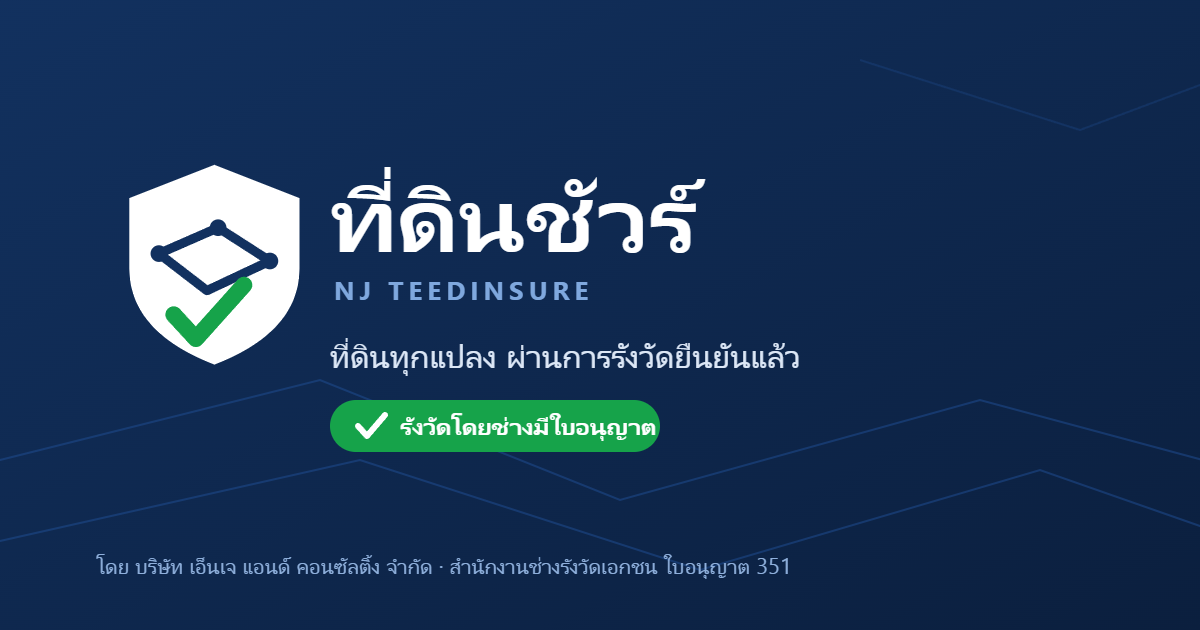
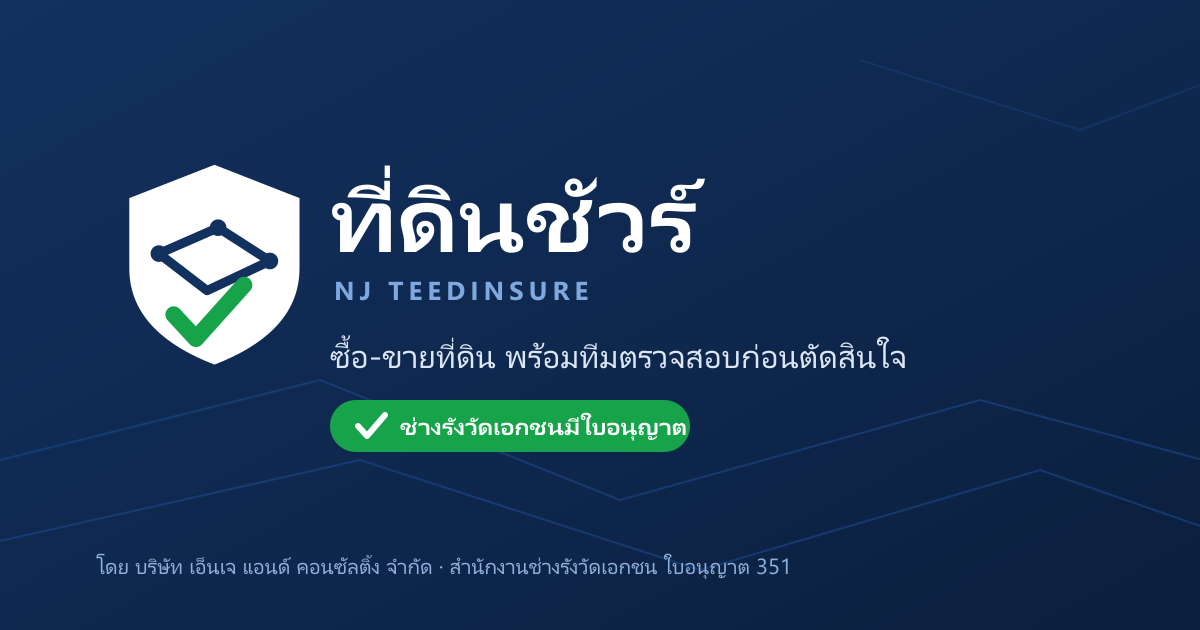
ข้อความก่อนเปิดสาธารณะ: เลิกอ้างว่าทุกแปลงรังวัดแล้ว · ค่านายหน้าขั้นบันได · เอาบันทึกภายในออก (#55)
* ข้อความบนเว็บก่อนเปิดสาธารณะ: เลิกอ้างว่าทุกแปลงรังวัดแล้ว · ค่านายหน้าขั้นบันได · เอากล่องบันทึกภายในออก

- รูปแชร์ (og-image) + โลโก้แนวนอน: "ที่ดินทุกแปลง ผ่านการรังวัดยืนยันแล้ว" → "ซื้อ-ขายที่ดิน พร้อมทีมตรวจสอบก่อนตัดสินใจ"
  (รังวัดเป็นบริการที่เจ้าของเลือกได้ตั้งแต่ 25 ก.ย. 2569) · สร้าง PNG ใหม่จาก SVG
- consign.html: title/og/description/hero บอกว่าเลือกรังวัดได้ (มีค่าบริการ) ไม่ใช่รังวัดให้ทุกแปลง ·
  ตัวเลือก "ต้องการรังวัด" เลิกสัญญาป้ายเขียว "รังวัดยืนยันแล้ว"
- services.html: ค่านายหน้า 3% → ขั้นบันได (ตรงกับหน้าฝากขาย/หน้าแรก) · contracts.test.js ล็อกเพิ่ม
- index.html/services.html: "ตรวจเอกสารและรังวัดยืนยันก่อนประกาศขาย" → รังวัดเมื่อเจ้าของเลือก
- njchat.js: เลิกอ้างว่าแปลงป้าย "รังวัดยืนยันแล้ว" ผ่านการรังวัด
- guides.html: เอากล่อง "ยังรอข้อมูลจากบริษัท" ออก (เจ้าของสั่ง 28 ก.ย. 2569) + CSS ที่ไม่ใช้แล้ว
- privacy.html: เอาหมายเหตุ "ข้อเสนอที่ยังไม่ได้รับอนุมัติ" ของตารางระยะเวลาเก็บออก (เจ้าของสั่ง) ·
  ตัดรหัสพนักงานผู้แชร์ (ฟีเจอร์ตัดแล้ว 26 ก.ย.) · วันที่ปรับปรุง 28 ก.ย. (privacy + terms)
- packages.html / package-order.html: แถบนโยบายท้ายหน้า + legal.css · <main> ซ้อนสองชั้นเหลือชั้นเดียว ·
  ฟอร์มแพ็กเกจลิงก์นโยบายความเป็นส่วนตัว
- forms.test.js หัวข้อ 10: ด่านกันข้อความอ้างเกินจริงกลับมา

* sitemap.xml: lastmod ของ guides/packages หลังแก้ข้อความ

---------

diff --git a/consign.html b/consign.html
@@ -3,16 +3,16 @@
 <head>
 <meta charset="UTF-8">
 <meta name="viewport" content="width=device-width, initial-scale=1.0">
-<title>ฝากขายที่ดินฟรี — รังวัดยืนยันเขตให้ก่อนประกาศ | ที่ดินชัวร์</title>
-<meta name="description" content="ฝากขาย/ฝากเช่าที่ดินกับที่ดินชัวร์ ไม่มีค่าใช้จ่ายล่วงหน้า ค่านายหน้าคิดเป็นขั้นตามราคาที่ขายได้ เริ่มที่ 3% และลดลงเมื่อมูลค่าสูงขึ้น เก็บเมื่อขายสำเร็จเท่านั้น เรารังวัดยืนยันเขตแดนจริงให้ก่อนประกาศขาย โดยช่างรังวัดเอกชนใบอนุญาตกรมที่ดินเลขที่ 351">
+<title>ฝากขายที่ดินฟรี — เลือกรังวัดยืนยันเขตก่อนประกาศได้ | ที่ดินชัวร์</title>
+<meta name="description" content="ฝากขาย/ฝากเช่าที่ดินกับที่ดินชัวร์ ไม่มีค่าใช้จ่ายล่วงหน้า ค่านายหน้าคิดเป็นขั้นตามราคาที่ขายได้ เริ่มที่ 3% และลดลงเมื่อมูลค่าสูงขึ้น เก็บเมื่อขายสำเร็จเท่านั้น เลือกให้รังวัดยืนยันเขตแดนจริงก่อนประกาศขายได้ (มีค่าบริการรังวัด) โดยช่างรังวัดเอกชนใบอนุญาตกรมที่ดินเลขที่ 351">
 <link rel="canonical" href="https://njteedinsure.com/consign.html">
 <meta name="referrer" content="strict-origin-when-cross-origin">
 <link rel="icon" href="brand/logo-favicon.svg">
 <link rel="apple-touch-icon" href="brand/apple-touch-icon.png">
 <meta property="og:type" content="website">
 <meta property="og:site_name" content="ที่ดินชัวร์">
-<meta property="og:title" content="ฝากขายที่ดินฟรี — รังวัดยืนยันเขตให้ก่อนประกาศ">
-<meta property="og:description" content="ไม่มีค่าใช้จ่ายล่วงหน้า เรารังวัดยืนยันเขตแดนจริงให้ก่อนประกาศขาย ผู้ซื้อจึงเชื่อถือและตัดสินใจเร็วขึ้น">
+<meta property="og:title" content="ฝากขายที่ดินฟรี — เลือกรังวัดยืนยันเขตก่อนประกาศได้">
+<meta property="og:description" content="ไม่มีค่าใช้จ่ายล่วงหน้า เลือกให้รังวัดยืนยันเขตแดนจริงก่อนประกาศขายได้ ผู้ซื้อจึงเชื่อถือและตัดสินใจเร็วขึ้น">
 <meta property="og:url" content="https://njteedinsure.com/consign.html">
 <meta property="og:image" content="https://njteedinsure.com/brand/og-image.png">
 <meta property="og:image:width" content="1200">
@@ -77,7 +77,7 @@
           "@id": "https://njteedinsure.com/#website"
         },
         "inLanguage": "th-TH",
-        "description": "ฝากขาย/ฝากเช่าที่ดินกับที่ดินชัวร์ ไม่มีค่าใช้จ่ายล่วงหน้า ค่านายหน้าคิดเป็นขั้นตามราคาที่ขายได้ เริ่มที่ 3% และลดลงเมื่อมูลค่าสูงขึ้น เก็บเมื่อขายสำเร็จเท่านั้น เรารังวัดยืนยันเขตแดนจริงให้ก่อนประกาศขาย โดยช่างรังวัดเอกชนใบอนุญาตกรมที่ดินเลขที่ 351",
+        "description": "ฝากขาย/ฝากเช่าที่ดินกับที่ดินชัวร์ ไม่มีค่าใช้จ่ายล่วงหน้า ค่านายหน้าคิดเป็นขั้นตามราคาที่ขายได้ เริ่มที่ 3% และลดลงเมื่อมูลค่าสูงขึ้น เก็บเมื่อขายสำเร็จเท่านั้น เลือกให้รังวัดยืนยันเขตแดนจริงก่อนประกาศขายได้ (มีค่าบริการรังวัด) โดยช่างรังวัดเอกชนใบอนุญาตกรมที่ดินเลขที่ 351",
         "breadcrumb": {
           "@id": "https://njteedinsure.com/consign.html#breadcrumb"
         }
@@ -247,7 +247,7 @@
       <div class="cs-eyebrow">✓ ช่างรังวัดเอกชน ใบอนุญาตกรมที่ดินเลขที่ 351</div>
       <h1>มีที่ดินอยากขาย<br>แต่คนซื้อไม่เชื่อเรื่องเขต?</h1>
       <p class="cs-lead">
-        ฝากขายกับ <strong>ที่ดินชัวร์</strong> — เรา<strong>รังวัดยืนยันเขตแดนจริงให้ก่อนประกาศ</strong>
+        ฝากขายกับ <strong>ที่ดินชัวร์</strong> — เลือกให้เรา<strong>รังวัดยืนยันเขตแดนจริงก่อนประกาศ</strong>ได้
         ผู้ซื้อเห็นขอบเขตแปลง เนื้อที่จริง และค่าพิกัดหลักเขตที่ตรวจสอบได้
         จึงตัดสินใจได้เร็วกว่าประกาศทั่วไปที่มีแค่รูปกับเลขโฉนด
       </p>
@@ -453,7 +453,7 @@
           <div class="cs-sv-opts" id="cs-sv-opts" role="radiogroup" aria-label="ต้องการให้รังวัดยืนยันเขตหรือไม่">
             <label class="cs-sv-opt">
               <input type="radio" name="surveyOpt" value="yes">
-              <span><b>ต้องการให้รังวัดยืนยันเขตและตรวจกรรมสิทธิ์ก่อนประกาศ</b><i>ได้ป้ายเขียว “รังวัดยืนยันแล้ว” + ผลตรวจ 7 หัวข้อบนหน้าประกาศ</i></span>
+              <span><b>ต้องการให้รังวัดยืนยันเขตและตรวจกรรมสิทธิ์ก่อนประกาศ</b><i>มีค่าบริการรังวัด · เมื่อช่างลงสนามเสร็จจริง ประกาศจะขึ้นขั้น “รังวัดยืนยันแนวเขต” พร้อมผลตรวจ 7 หัวข้อ</i></span>
             </label>
             <label class="cs-sv-opt">
               <input type="radio" name="surveyOpt" value="no">
@@ -710,13 +710,13 @@
       </div>
       <div class="cs-step">
         <div class="cs-stepno">3</div>
-        <div class="cs-steptitle">รังวัดยืนยันเขตจริง</div>
+        <div class="cs-steptitle">รังวัดยืนยันเขตจริง (ถ้าเลือก)</div>
         <div class="cs-steptext">ทีมช่างรังวัดลงสนามยืนยันหลักเขตและเนื้อที่จริง ได้ผังแปลงและค่าพิกัดที่ผู้ซื้อตรวจสอบได้</div>
       </div>
       <div class="cs-step">
         <div class="cs-stepno">4</div>
         <div class="cs-steptitle">ประกาศขายและปิดการขาย</div>
-        <div class="cs-steptext">ลงประกาศพร้อมข้อมูลรังวัดจริง พาผู้สนใจดูที่ดิน และดูแลขั้นตอนโอนที่สำนักงานที่ดินจนจบ</div>
+        <div class="cs-steptext">ลงประกาศพร้อมข้อมูลที่ตรวจแล้ว พาผู้สนใจดูที่ดิน และดูแลขั้นตอนโอนที่สำนักงานที่ดินจนจบ</div>
       </div>
     </div>
   </div>

diff --git a/privacy.html b/privacy.html
@@ -183,7 +183,7 @@
       เก็บข้อมูลส่วนบุคคลอะไรบ้าง เก็บไว้ที่ไหน ใช้ทำอะไร ส่งต่อให้ใคร เก็บนานเท่าไร
       และคุณใช้สิทธิ์ตามพระราชบัญญัติคุ้มครองข้อมูลส่วนบุคคล พ.ศ. 2562 ได้อย่างไร
     </p>
-    <p class="lg-updated">ปรับปรุงล่าสุด <time datetime="2026-09-20">20 กันยายน 2569</time></p>
+    <p class="lg-updated">ปรับปรุงล่าสุด <time datetime="2026-09-28">28 กันยายน 2569</time></p>
   </div>
 </section>
 
@@ -192,9 +192,8 @@
 
     <!-- บันทึกภายใน (ตรวจอิสระ 28 ก.ย. 2569): เดิมกล่องนี้แสดงต่อสาธารณะว่า "ส่วนที่บริษัทต้องเติมก่อนเผยแพร่"
          ที่อยู่จดทะเบียน · เลขนิติบุคคล · อีเมลรับคำขอใช้สิทธิ์ ถูกเติมแล้วจากค่าที่ระบบพิมพ์บนใบเสนอราคา/ใบแจ้งหนี้ (COMPANY ใน server.js)
-         ยังเหลือให้ผู้บริหาร/ที่ปรึกษากฎหมายตัดสิน (แก้ในหน้านี้ได้เลย ไม่ต้องเปิดกล่องกลับ):
-         · เจ้าหน้าที่คุ้มครองข้อมูลส่วนบุคคล (DPO) — ตอนนี้ระบุว่าใช้ช่องทางติดต่อของบริษัท
-         · ระยะเวลาเก็บรักษาในข้อ 6 — ตัวเลขเป็นแนวปฏิบัติที่ระบบทำจริง ควรให้ผู้บริหารยืนยันเป็นนโยบาย -->
+         28 ก.ย. 2569 เจ้าของกิจการสั่งเอาหมายเหตุว่าตารางข้อ 6 เป็นข้อเสนอออก — ตารางระยะเวลาเก็บคือแนวปฏิบัติที่ระบบทำจริง
+         แก้ตัวเลขเมื่อไหร่ต้องแก้วันที่ "ปรับปรุงล่าสุด" ด้านบนด้วย -->
 
     <h2 class="cs-h2">1. ผู้ควบคุมข้อมูลส่วนบุคคล</h2>
     <p>
@@ -271,8 +270,7 @@
     <p>
       เราเก็บสถิติของเราเองว่าหน้าไหนถูกเปิดกี่ครั้ง มีคนกดปุ่มติดต่อกี่ครั้ง และแปลงไหนมีคนดู
       <b>สถิติชุดนี้ไม่ใช้คุกกี้ ไม่มีชื่อ ไม่มีเบอร์โทร และไม่มีสิ่งที่ระบุตัวคุณได้</b>
-      สิ่งที่ส่งไปคือชนิดของเหตุการณ์ รหัสแปลง (เฉพาะเหตุการณ์ที่ผูกกับแปลง)
-      และรหัสพนักงานผู้แชร์ลิงก์ถ้าคุณเข้ามาจากลิงก์ที่พนักงานส่งให้
+      สิ่งที่ส่งไปคือชนิดของเหตุการณ์ และรหัสแปลง (เฉพาะเหตุการณ์ที่ผูกกับแปลง)
     </p>
 
     <h3>2.3 คุกกี้และเครื่องมือวัดผลโฆษณา</h3>
@@ -288,7 +286,6 @@
     </p>
     <ul>
       <li>ตัวเลือกคุกกี้ที่คุณกด</li>
-      <li>รหัสพนักงานผู้แชร์ลิงก์ (เก็บเฉพาะการเข้าครั้งนี้)</li>
       <li>รายการแปลงที่คุณเลือกไว้เพื่อเปรียบเทียบ (เก็บเฉพาะการเข้าครั้งนี้)</li>
       <li>ประวัติแชทในหน้าจอ (เก็บเฉพาะการเข้าครั้งนี้)</li>
       <li>ตั๋วเข้าถึงใบฝากขายของคุณ เพื่อให้เปิดกลับมาแก้ไขได้โดยไม่ต้องมีรหัสผ่าน</li>
@@ -342,12 +339,9 @@
     </p>
 
     <h2 class="cs-h2">6. เก็บไว้นานเท่าไร</h2>
-    <p class="lg-note">
-      ตัวเลขในตารางนี้เป็น<b>ข้อเสนอ</b>ที่ยังไม่ได้รับอนุมัติ — ต้องให้บริษัทยืนยันก่อนเผยแพร่จริง
-    </p>
     <div class="lg-table-wrap">
     <table class="lg-table">
-      <thead><tr><th>ประเภท</th><th>ระยะเวลาที่เสนอ</th></tr></thead>
+      <thead><tr><th>ประเภท</th><th>ระยะเวลาที่เก็บ</th></tr></thead>
       <tbody>
         <tr><td>ใบฝากขาย ใบฝากหา และคำขอตรวจที่ไม่ได้ไปต่อ</td><td>2 ปีนับจากการติดต่อครั้งสุดท้าย</td></tr>
         <tr><td>งานที่ว่าจ้างจริงและเอกสารประกอบ</td><td>10 ปี ตามอายุความและข้อกำหนดทางบัญชี</td></tr>

diff --git a/njchat.js b/njchat.js
@@ -568,7 +568,7 @@
     if (has(q, ['ติดตามงาน', 'สถานะงาน', 'รหัสเข้าระบบ', 'ลืมรหัส', 'เข้าระบบ', 'portal'])) return Promise.resolve({ html: nl2br(KB.portal) + '<br>' + link('portal.html', 'ระบบติดตามงานรังวัด →'), chips: ['คุยกับเจ้าหน้าที่'] });
     if (has(q, ['พื้นที่ให้บริการ', 'รับงานที่ไหน', 'ไปถึงไหม', 'ต่างจังหวัดรับไหม', 'ค่าเดินทาง'])) return Promise.resolve({ html: nl2br(KB.area), chips: ['ค่ารังวัดสอบเขต 2 ไร่ เท่าไหร่'] });
     if (has(q, ['โฉนดคือ', 'นส3', 'น.ส.3', 'สค1', 'ส.ค.1', 'เอกสารสิทธิ์ต่าง', 'โฉนดกับ'])) return Promise.resolve({ html: 'โฉนดที่ดิน (น.ส.4) คือเอกสารสิทธิ์สมบูรณ์ที่สุด ระวางแผนที่แม่นยำ · น.ส.3/น.ส.3ก เป็นสิทธิครอบครองที่ยังไม่ออกโฉนดเต็มรูป · ส.ค.1 เป็นเพียงการแจ้งครอบครองเบื้องต้น ยังโอนขายทันทีไม่ได้ครับ — ช่างรังวัดเอกชนรับงานได้เฉพาะที่ดินที่มีโฉนดแล้ว ' + link('guides.html#deed', 'อ่านเพิ่ม →'), chips: ['เฉพาะที่มีโฉนด', 'ทำไมต้องรังวัดก่อนซื้อ'] });
-    if (has(q, ['ทำไมต้องรังวัด', 'รังวัดก่อนซื้อ', 'จำเป็นต้องรังวัด', 'ไม่รังวัดได้ไหม'])) return Promise.resolve({ html: 'เนื้อที่ในโฉนดอาจคลาดเคลื่อนจากพื้นที่จริง หรือแนวเขตทับซ้อนกับแปลงข้างเคียงโดยไม่รู้ตัวครับ การรังวัดสอบเขตโดยช่างรังวัดที่ได้รับอนุญาตจะยืนยันตำแหน่งหลักเขตจริงในสนาม ป้องกันซื้อที่ดินผิดขนาดหรือมีข้อพิพาทภายหลัง — ทุกแปลงที่ขึ้นป้าย "รังวัดยืนยันแล้ว" บนเว็บนี้ผ่านขั้นตอนนี้แล้ว ' + link('guides.html#survey', 'อ่านเพิ่ม →'), chips: ['ค่ารังวัดสอบเขต 2 ไร่ เท่าไหร่', 'หาที่ดินในกรุงเทพฯ ปริมณฑล'] });
+    if (has(q, ['ทำไมต้องรังวัด', 'รังวัดก่อนซื้อ', 'จำเป็นต้องรังวัด', 'ไม่รังวัดได้ไหม'])) return Promise.resolve({ html: 'เนื้อที่ในโฉนดอาจคลาดเคลื่อนจากพื้นที่จริง หรือแนวเขตทับซ้อนกับแปลงข้างเคียงโดยไม่รู้ตัวครับ การรังวัดสอบเขตโดยช่างรังวัดที่ได้รับอนุญาตจะยืนยันตำแหน่งหลักเขตจริงในสนาม ป้องกันซื้อที่ดินผิดขนาดหรือมีข้อพิพาทภายหลัง — แปลงที่ขึ้นขั้น "รังวัดยืนยันแนวเขต" ในบันได 5 ระดับบนเว็บนี้ผ่านขั้นตอนนี้แล้ว ' + link('guides.html#survey', 'อ่านเพิ่ม →'), chips: ['ค่ารังวัดสอบเขต 2 ไร่ เท่าไหร่', 'หาที่ดินในกรุงเทพฯ ปริมณฑล'] });
     // ข้อพิพาทแนวเขต / เพื่อนบ้านรุกล้ำ — ต้องมาก่อนโหมดค้นแปลง ไม่งั้น "ข้างบ้าน" กับ "ที่ดิน" จะลากเข้าไปค้นประกาศ
     // ⚠ คำว่า "เพื่อนบ้าน/ข้างบ้าน" เดี่ยวๆ กว้างเกินไป ("ที่ดินข้างบ้านขายไหม" คือคนอยากซื้อ ไม่ใช่มีเรื่อง)
     //    จึงต้องเจอคำที่บ่งว่ามีปัญหาจริง หรือเจอคู่ "คนข้างเคียง + คำเรื่องแนวเขต" พร้อมกัน

diff --git a/forms.test.js b/forms.test.js
@@ -145,12 +145,34 @@ ok('อ้างใบอนุญาตจริงของบริษัท'
 ok('มีวันที่ตรวจทานในรูปแบบที่เครื่องอ่านได้', /<time datetime="\d{4}-\d{2}-\d{2}">/.test(guides));
 const d = (guides.match(/<time datetime="(\d{4}-\d{2}-\d{2})">/) || [])[1];
 ok('⭐ วันที่ตรวจทานต้องไม่เป็นวันในอนาคต', !!d && new Date(d) <= new Date(), d);
-ok('⭐ ยังไม่ใส่ชื่อผู้ตรวจทานปลอม — ขึ้นกล่องบอกว่ายังรอจากบริษัท',
-   /class="gd-todo"/.test(guides) && /ห้ามใส่ชื่อสมมติ/.test(guides));
+// เจ้าของกิจการสั่งเอากล่อง "ยังรอข้อมูลจากบริษัท" ออก 28 ก.ย. 2569 — กล่องนั้นแสดงต่อสาธารณะ
+ok('⭐ ไม่มีกล่องบันทึกภายในที่แสดงต่อสาธารณะ', !/class="gd-todo"/.test(guides) && !/ยังรอข้อมูลจากบริษัท/.test(guides));
+ok('⭐ ไม่อ้างชื่อผู้ตรวจทานที่ไม่มีจริง', !/ตรวจทานโดย/.test(guides));
 ['dol.go.th', 'dpt.go.th', 'treasury.go.th', 'rd.go.th'].forEach(h => {
   ok('มีแหล่งอ้างอิง ' + h, guides.indexOf(h) >= 0);
 });
 ok('คำเตือนว่าไม่ใช่คำแนะนำทางกฎหมายยังอยู่', /ไม่ใช่คำแนะนำทางกฎหมาย/.test(guides));
+
+console.log('\n10) ข้อความอ้างเกินจริงก่อนเปิดสาธารณะ (28 ก.ย. 2569)');
+// การรังวัดเป็นบริการที่เจ้าของเลือกได้ (ตั้งแต่ 25 ก.ย. 2569) — ห้ามอ้างว่าทุกแปลงรังวัดแล้ว
+['brand/og-image.svg', 'brand/logo-horizontal.svg'].forEach(f => {
+  ok('⭐⭐ ' + f + ' ไม่อ้างว่า "ที่ดินทุกแปลง ผ่านการรังวัด"', !/ทุกแปลง\s*ผ่านการรังวัด/.test(read(f)));
+});
+const consignSrc = read('consign.html');
+ok('⭐⭐ หน้าฝากขายไม่สัญญาว่า "รังวัดยืนยันเขตให้ก่อนประกาศ" แบบไม่มีเงื่อนไข',
+   !/รังวัดยืนยันเขตให้ก่อนประกาศ/.test(consignSrc) && !/เรารังวัดยืนยันเขตแดนจริงให้ก่อนประกาศ/.test(consignSrc));
+ok('⭐ ตัวเลือก "ต้องการรังวัด" ไม่สัญญาป้ายเขียว "รังวัดยืนยันแล้ว"', !/ป้ายเขียว “รังวัดยืนยันแล้ว”/.test(consignSrc));
+ok('⭐ แชทไม่อ้างว่าป้าย "รังวัดยืนยันแล้ว" = ผ่านการรังวัด',
+   !/ป้าย "รังวัดยืนยันแล้ว" บนเว็บนี้ผ่านขั้นตอนนี้/.test(read('njchat.js')));
+const priv = read('privacy.html');
+ok('⭐ นโยบายไม่แสดงว่า "ยังไม่ได้รับอนุมัติ" ต่อสาธารณะ', !/ยังไม่ได้รับอนุมัติ/.test(priv));
+ok('⭐ นโยบายไม่พูดถึงรหัสพนักงานผู้แชร์ (ตัดฟีเจอร์ออกแล้ว 26 ก.ย. 2569)', !/รหัสพนักงานผู้แชร์/.test(priv));
+['packages.html', 'package-order.html'].forEach(f => {
+  const h = read(f);
+  ok(f + ' มีแถบนโยบายท้ายหน้า', /class="nj-legal"/.test(h) && /href="privacy\.html"/.test(h) && /legal\.css/.test(h));
+  ok(f + ' มี <main> ชั้นเดียว', (h.match(/<main[\s>]/g) || []).length === 1);
+});
+ok('ฟอร์มแพ็กเกจลิงก์ไปนโยบายความเป็นส่วนตัว', /href="privacy\.html"/.test(read('packages.js')));
 
 console.log('\n' + (fail ? '❌' : '✅') + ' forms: ผ่าน ' + pass + ' · ไม่ผ่าน ' + fail);
 process.exit(fail ? 1 : 0);

diff --git a/index.html b/index.html
@@ -507,7 +507,7 @@
       <div class="sell-copy">
         <span class="eyebrow">สำหรับเจ้าของที่ดิน</span>
         <h2 class="h2">มีที่ดินอยากขาย?<br>เริ่มจากข้อมูลที่ถูกต้อง</h2>
-        <p>ที่ดินขายไม่ออกมักไม่ใช่เพราะราคา แต่เพราะผู้ซื้อไม่มั่นใจว่าแปลงจริงตรงกับโฉนดหรือไม่ เข้า–ออกทางไหน แบ่งแยกได้จริงหรือเปล่า เราปิดช่องว่างนั้นด้วยการตรวจเอกสารและรังวัดยืนยันก่อนประกาศขาย</p>
+        <p>ที่ดินขายไม่ออกมักไม่ใช่เพราะราคา แต่เพราะผู้ซื้อไม่มั่นใจว่าแปลงจริงตรงกับโฉนดหรือไม่ เข้า–ออกทางไหน แบ่งแยกได้จริงหรือเปล่า เราปิดช่องว่างนั้นด้วยการตรวจเอกสาร และรังวัดยืนยันแนวเขตก่อนประกาศขายเมื่อเจ้าของเลือก</p>
         <div class="steps">
           <!-- ⚠ อัตราค่านายหน้าอยู่หลายที่บนเว็บ (ที่นี่ · consign.html · njchat.js)
                ต้นทางคือขั้นค่านายหน้าในระบบหลังบ้าน — contracts.test.js เทียบให้ -->
@@ -565,7 +565,7 @@
             </div>
           </div>
           <div style="font-size:13px;letter-spacing:0.06em;color:#B08D57;margin-bottom:16px">ทำไมต้องฝากขายกับเรา</div>
-          <p style="font-size:15px;font-weight:400;line-height:1.68;color:#8798A9;margin:0 0 20px">ที่ดินขายไม่ออกมักไม่ใช่เพราะราคา แต่เพราะผู้ซื้อไม่มั่นใจว่าแปลงจริงตรงกับโฉนดหรือไม่ เข้า–ออกทางไหน และแบ่งแยกได้จริงหรือเปล่า เราปิดช่องว่างนั้นด้วยการตรวจเอกสารและรังวัดยืนยันก่อนประกาศขาย ผู้ซื้อจึงตัดสินใจได้เร็วขึ้น</p>
+          <p style="font-size:15px;font-weight:400;line-height:1.68;color:#8798A9;margin:0 0 20px">ที่ดินขายไม่ออกมักไม่ใช่เพราะราคา แต่เพราะผู้ซื้อไม่มั่นใจว่าแปลงจริงตรงกับโฉนดหรือไม่ เข้า–ออกทางไหน และแบ่งแยกได้จริงหรือเปล่า เราปิดช่องว่างนั้นด้วยการตรวจเอกสาร และรังวัดยืนยันแนวเขตก่อนประกาศขายเมื่อเจ้าของเลือก ผู้ซื้อจึงตัดสินใจได้เร็วขึ้น</p>
           <div style="display:grid;gap:10px;font-size:15px;font-weight:400;color:#A8B6C4">
             <!-- ⚠ อัตราค่านายหน้าอยู่ 5 ที่บนเว็บ (ที่นี่ · consign.html 3 จุด · njchat.js)
                  ต้นทางคือขั้นค่านายหน้าในระบบหลังบ้าน — contracts.test.js เทียบให้ -->

diff --git a/services.html b/services.html
@@ -394,10 +394,11 @@
             </div>
           </div>
           <div style="font-size:13px;letter-spacing:0.06em;color:#B08D57;margin-bottom:16px">ทำไมต้องฝากขายกับเรา</div>
-          <p style="font-size:15px;font-weight:400;line-height:1.68;color:#8798A9;margin:0 0 20px">ที่ดินขายไม่ออกมักไม่ใช่เพราะราคา แต่เพราะผู้ซื้อไม่มั่นใจว่าแปลงจริงตรงกับโฉนดหรือไม่ เข้า–ออกทางไหน และแบ่งแยกได้จริงหรือเปล่า เราปิดช่องว่างนั้นด้วยการตรวจเอกสารและรังวัดยืนยันก่อนประกาศขาย ผู้ซื้อจึงตัดสินใจได้เร็วขึ้น</p>
+          <p style="font-size:15px;font-weight:400;line-height:1.68;color:#8798A9;margin:0 0 20px">ที่ดินขายไม่ออกมักไม่ใช่เพราะราคา แต่เพราะผู้ซื้อไม่มั่นใจว่าแปลงจริงตรงกับโฉนดหรือไม่ เข้า–ออกทางไหน และแบ่งแยกได้จริงหรือเปล่า เราปิดช่องว่างนั้นด้วยการตรวจเอกสาร และรังวัดยืนยันแนวเขตก่อนประกาศขายเมื่อเจ้าของเลือก ผู้ซื้อจึงตัดสินใจได้เร็วขึ้น</p>
           <div style="display:grid;gap:10px;font-size:15px;font-weight:400;color:#A8B6C4">
-            <!-- อัตราค่านายหน้าอยู่ 3 ที่บนเว็บ (ที่นี่ · consign.html 2 จุด) แก้ต้องแก้ให้ครบพร้อมกัน -->
-            <div>ประเมินและลงประกาศฟรี — ค่านายหน้า 3% เก็บเมื่อขายสำเร็จเท่านั้น</div>
+            <!-- ⚠ อัตราค่านายหน้าอยู่หลายที่บนเว็บ (ที่นี่ · consign.html · index.html · njchat.js)
+                 ต้นทางคือขั้นค่านายหน้าในระบบหลังบ้าน — contracts.test.js เทียบให้ -->
+            <div>ประเมินและลงประกาศฟรี — ค่านายหน้าคิดเป็นขั้นตามราคาที่ขายได้ เริ่มที่ 3% และลดลงเมื่อมูลค่าสูงขึ้น เก็บเมื่อขายสำเร็จเท่านั้น</div>
             <div>ตรวจกรรมสิทธิ์และแนวเขตโดยช่างรังวัดเอกชน ใบอนุญาต 351</div>
             <div>งานรังวัด แบ่งแยก จัดสรร ต่อเนื่องในทีมเดียว</div>
           </div>

diff --git a/guides.html b/guides.html
@@ -294,18 +294,6 @@
         <a href="https://www.rd.go.th" target="_blank" rel="noopener">กรมสรรพากร — ภาษีจากการขายอสังหาริมทรัพย์</a>
       </div>
 
-      <!-- ⚠ กล่องนี้ห้ามลบทิ้งเฉยๆ (กติกาเดียวกับ .lg-todo ในหน้านโยบาย)
-           ลบได้ก็ต่อเมื่อเติมของจริงครบแล้ว · ลบทิ้งเฉยๆ = หน้าที่อ้างว่ามีผู้ตรวจทานโดยไม่มีจริง -->
-      <div class="gd-todo">
-        <b>ยังรอข้อมูลจากบริษัท</b>
-        <p>ข้อกำหนดของรอบนี้ให้ระบุ "ผู้ตรวจทาน" ของบทความความรู้ด้วย แต่ตอนนี้ยังไม่มีชื่อผู้ตรวจทานที่ยืนยันแล้ว
-          จึงยังไม่เขียนลงหน้า — <b>ห้ามใส่ชื่อสมมติเพื่อให้หน้าดูสมบูรณ์</b> (กติกาข้อ 4 และ 9)</p>
-        <ul>
-          <li>ชื่อ–สกุล และตำแหน่งของผู้ตรวจทานเนื้อหา (เช่น ช่างรังวัดผู้ได้รับใบอนุญาต หรือที่ปรึกษากฎหมาย)</li>
-          <li>รอบการตรวจทานที่ตกลงกันไว้ (เช่น ทุก 6 เดือน หรือเมื่อกฎหมายเปลี่ยน)</li>
-        </ul>
-      </div>
-
       <p class="gd-disclaimer">ข้อมูลข้างต้นเป็นความรู้เบื้องต้นเพื่อการศึกษาเท่านั้น ไม่ใช่คำแนะนำทางกฎหมาย รายละเอียด/อัตราจริงอาจเปลี่ยนแปลงตามกฎหมายและดุลยพินิจของเจ้าหน้าที่ — โปรดตรวจสอบกับสำนักงานที่ดินหรือปรึกษาผู้เชี่ยวชาญก่อนตัดสินใจ</p>
     </div>
 

diff --git a/packages.js b/packages.js
@@ -359,7 +359,7 @@
       '<label class="pk-f" for="pk-l-note"><span>ข้อความถึงทีมงาน</span><textarea id="pk-l-note" rows="2" maxlength="2000" placeholder="เช่น สะดวกให้ติดต่อช่วงเย็น หรือรายละเอียดทรัพย์เพิ่มเติม"></textarea></label>' +
       '<input type="text" id="pk-l-hp" class="pk-hp" tabindex="-1" autocomplete="off" aria-hidden="true">' +
       '<label class="pk-pdpa" for="pk-l-pdpa"><input type="checkbox" id="pk-l-pdpa">' +
-        '<span>ยินยอมให้ บริษัท เอ็นเจ แอนด์ คอนซัลติ้ง จำกัด เก็บและใช้ข้อมูลนี้เพื่อเสนอบริการและติดต่อกลับเท่านั้น และขอให้ลบเมื่อไรก็ได้</span></label>' +
+        '<span>ยินยอมให้ บริษัท เอ็นเจ แอนด์ คอนซัลติ้ง จำกัด เก็บและใช้ข้อมูลนี้เพื่อเสนอบริการและติดต่อกลับเท่านั้น และขอให้ลบเมื่อไรก็ได้ · <a href="privacy.html" target="_blank" rel="noopener">อ่านนโยบายความเป็นส่วนตัว</a></span></label>' +
       '<button type="submit" class="pk-btn is-primary" id="pk-l-send" disabled>ส่งให้เจ้าหน้าที่</button>' +
       '<p class="pk-msg" id="pk-l-msg" role="status" aria-live="polite"></p>' +
       '<p class="pk-hint" style="margin-top:8px">หรือทักไลน์ <a href="' + LINE_URL + '" target="_blank" rel="noopener" data-contact="line">@716lffzt</a> · โทร <a href="tel:021620405" data-contact="tel">' + TEL + '</a></p>' +

diff --git a/packages.html b/packages.html
@@ -32,6 +32,7 @@
 <link rel="stylesheet" href="ui.css">
 <link rel="stylesheet" href="menu.css">
 <link rel="stylesheet" href="packages.css">
+<link rel="stylesheet" href="legal.css">
   <!-- nj-schema:start — สร้างด้วย build/schema.js · ห้ามแก้ด้วยมือ -->
   <script type="application/ld+json" data-nj-schema>
   {
@@ -187,7 +188,7 @@
   </div>
 </section>
 
-<main class="pk-main">
+<div class="pk-main">
   <div class="wrap">
 
     <!-- ⚠ ราคาและรายการทั้งหมดมาจาก /api/public/packages ของระบบหลังบ้าน
@@ -234,10 +235,16 @@
 
     <div class="pk-disc" id="pk-disclaimer"></div>
   </div>
-</main>
+</div>
 </main>
 <footer class="site-footer">
   <div class="wrap">© <span id="year"></span> ที่ดินชัวร์ (NJ TEEDINSURE) โดย บริษัท เอ็นเจ แอนด์ คอนซัลติ้ง จำกัด — สำนักงานช่างรังวัดเอกชน ใบอนุญาต 351</div>
+<nav class="nj-legal" aria-label="นโยบายและข้อกำหนด">
+  <a href="privacy.html">นโยบายความเป็นส่วนตัว</a><span class="nj-legal-sep" aria-hidden="true">·</span>
+  <a href="cookie.html">นโยบายคุกกี้</a><span class="nj-legal-sep" aria-hidden="true">·</span>
+  <a href="terms.html">ข้อกำหนดการใช้งาน</a><span class="nj-legal-sep" aria-hidden="true">·</span>
+  <button type="button" class="nj-legal-btn" data-njconsent>ตั้งค่าคุกกี้</button>
+</nav>
 </footer>
 
 <div class="cs-bottombar">

diff --git a/package-order.html b/package-order.html
@@ -26,6 +26,7 @@
 <link rel="stylesheet" href="ui.css">
 <link rel="stylesheet" href="menu.css">
 <link rel="stylesheet" href="package-order.css">
+<link rel="stylesheet" href="legal.css">
 </head>
 <body class="page-package-order">
 <!-- NJ:HEADER เริ่ม — สร้างด้วย build/pages.js ห้ามแก้ด้วยมือ -->
@@ -101,7 +102,7 @@
 
 <main id="main">
 
-<main class="po-main">
+<div class="po-main">
   <div class="wrap">
     <div id="po-root" aria-live="polite">
       <p class="po-note">กำลังเปิดใบสั่งงานของคุณ…</p>
@@ -114,10 +115,16 @@
       </div>
     </noscript>
   </div>
-</main>
+</div>
 </main>
 <footer class="site-footer">
   <div class="wrap">© <span id="year"></span> ที่ดินชัวร์ (NJ TEEDINSURE) โดย บริษัท เอ็นเจ แอนด์ คอนซัลติ้ง จำกัด — สำนักงานช่างรังวัดเอกชน ใบอนุญาต 351</div>
+<nav class="nj-legal" aria-label="นโยบายและข้อกำหนด">
+  <a href="privacy.html">นโยบายความเป็นส่วนตัว</a><span class="nj-legal-sep" aria-hidden="true">·</span>
+  <a href="cookie.html">นโยบายคุกกี้</a><span class="nj-legal-sep" aria-hidden="true">·</span>
+  <a href="terms.html">ข้อกำหนดการใช้งาน</a><span class="nj-legal-sep" aria-hidden="true">·</span>
+  <button type="button" class="nj-legal-btn" data-njconsent>ตั้งค่าคุกกี้</button>
+</nav>
 </footer>
 
 <div class="cs-bottombar">

diff --git a/contracts.test.js b/contracts.test.js
@@ -659,6 +659,8 @@ console.log('\nแพ็กเกจบริการ (รอบ 4) — package
       !/ค่านายหน้า 3%/.test(consignHtml) && !/ค่านายหน้าคิด 3%/.test(consignHtml));
     check('⭐⭐ หน้าแรกไม่เหลือข้อความ "ค่านายหน้า 3%" แบบอัตราเดียว', !/ค่านายหน้า 3%/.test(indexHtml));
     check('⭐⭐ ฐานความรู้ของแชทไม่เหลืออัตราเดียว', !/ค่านายหน้า 3%/.test(njchat));
+    check('⭐⭐ หน้าบริการไม่เหลือข้อความ "ค่านายหน้า 3%" แบบอัตราเดียว',
+      !/ค่านายหน้า 3%/.test(read(path.join(WEB, 'services.html'))));
     check('หน้าฝากขายบอกว่าเป็นอัตราขั้นบันได', /ขั้นตามราคาที่ขายได้/.test(consignHtml));
     check('คำถามที่พบบ่อยของหน้าฝากขายมีอัตราครบทุกขั้น',
       /2\.5%/.test(consignHtml) && /50,000 บาท/.test(consignHtml));

diff --git a/guides.css b/guides.css
@@ -78,20 +78,6 @@
 }
 .gd-byline b { color: var(--nj-text); font-weight: 600; }
 
-/* กล่องสีเหลือง = ของที่ยังไม่มีจริง ไม่ใช่ของตกแต่ง (กติกาเดียวกับ .lg-todo) */
-.gd-todo {
-  margin: var(--nj-space-5) 0 0;
-  padding: var(--nj-space-4) var(--nj-space-5);
-  background: var(--nj-warn-bg);
-  border-left: 4px solid var(--nj-warn-fg);
-  border-radius: var(--nj-radius-sm);
-  font-size: var(--nj-fs-sm);
-  line-height: var(--nj-lh-body);
-}
-.gd-todo b { color: var(--nj-warn-fg); }
-.gd-todo p { margin: var(--nj-space-2) 0; }
-.gd-todo ul { margin: 0; padding-left: 1.2em; }
-
 /* ทางเข้าเว็บ NJ ในหัวข้อรังวัดสอบเขต (2026-09-23) */
 .gd-nj{margin-top:10px;padding:10px 12px;border-left:3px solid var(--nj-gold-600);background:var(--nj-surface-alt);border-radius:8px;font-size:var(--nj-fs-sm);line-height:1.6}
 .gd-nj a{color:var(--nj-link);font-weight:600;white-space:nowrap}
